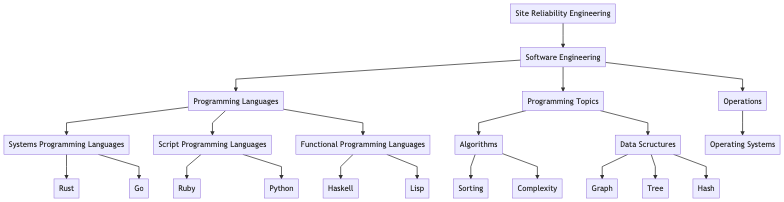
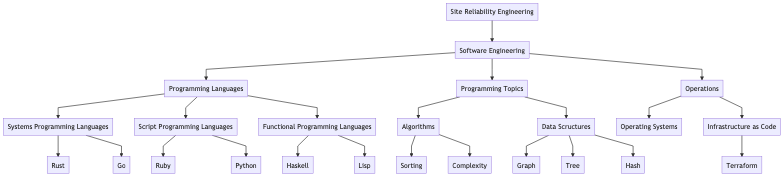
Add Infrastructure as Code + Terraform Basics

diff --git a/README.md b/README.md
@@ -6,9 +6,11 @@
 ### More info
 > Information about the links
 
+* 📰 - Articlew
 * 📕 - Book
 * 👩💻 - Project
 * 🎓 - Online Course
+* 📼 - Video
 * 🆓 - No money required
 * 💰 - Paid
 
@@ -24,3 +26,9 @@
   * Operations
     * Operating Systems
       * [Introduction to Operating Systems](https://eu.udacity.com/course/introduction-to-operating-systems--ud923) 🎓 🆓
+    * Infrastructure as Code
+      * [What is IaC?](https://www.youtube.com/watch?v=RO7VcUAsf-I) 📼 🆓
+      * [Getting Started with IaC](https://www.youtube.com/watch?v=G3D14I5_NIk)
+      * Terraform
+        * [Introduction to Terraform](https://www.youtube.com/watch?v=h970ZBgKINg) 📼 🆓
+        * [Infrastructure as Code in the Real World?](https://www.youtube.com/watch?v=S6vS5mzivFo) 📼 🆓
